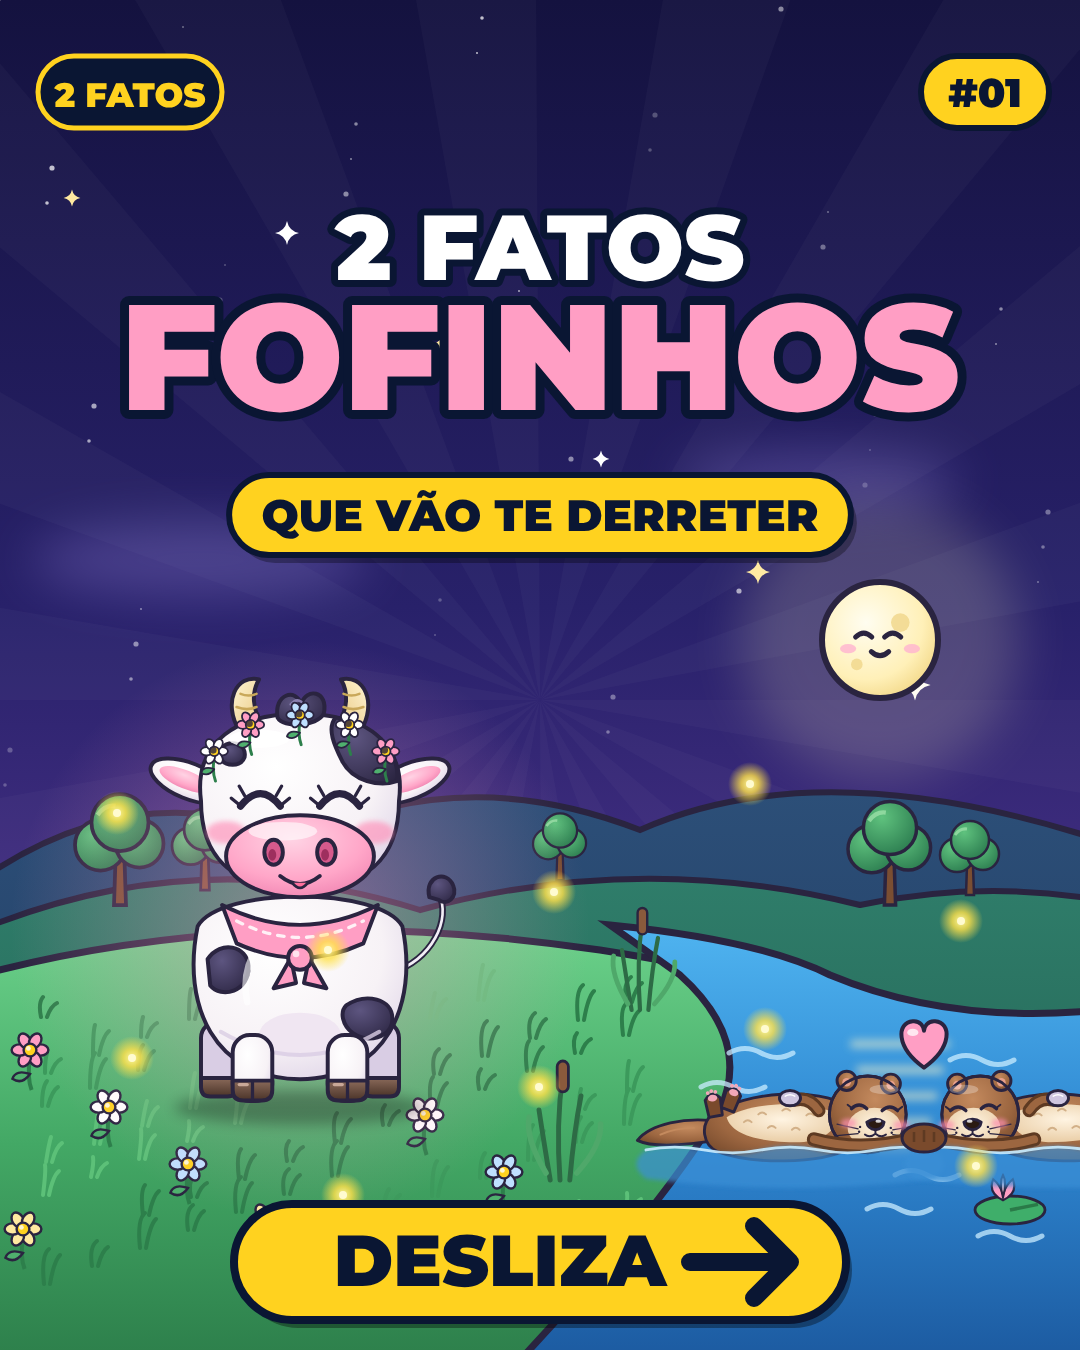
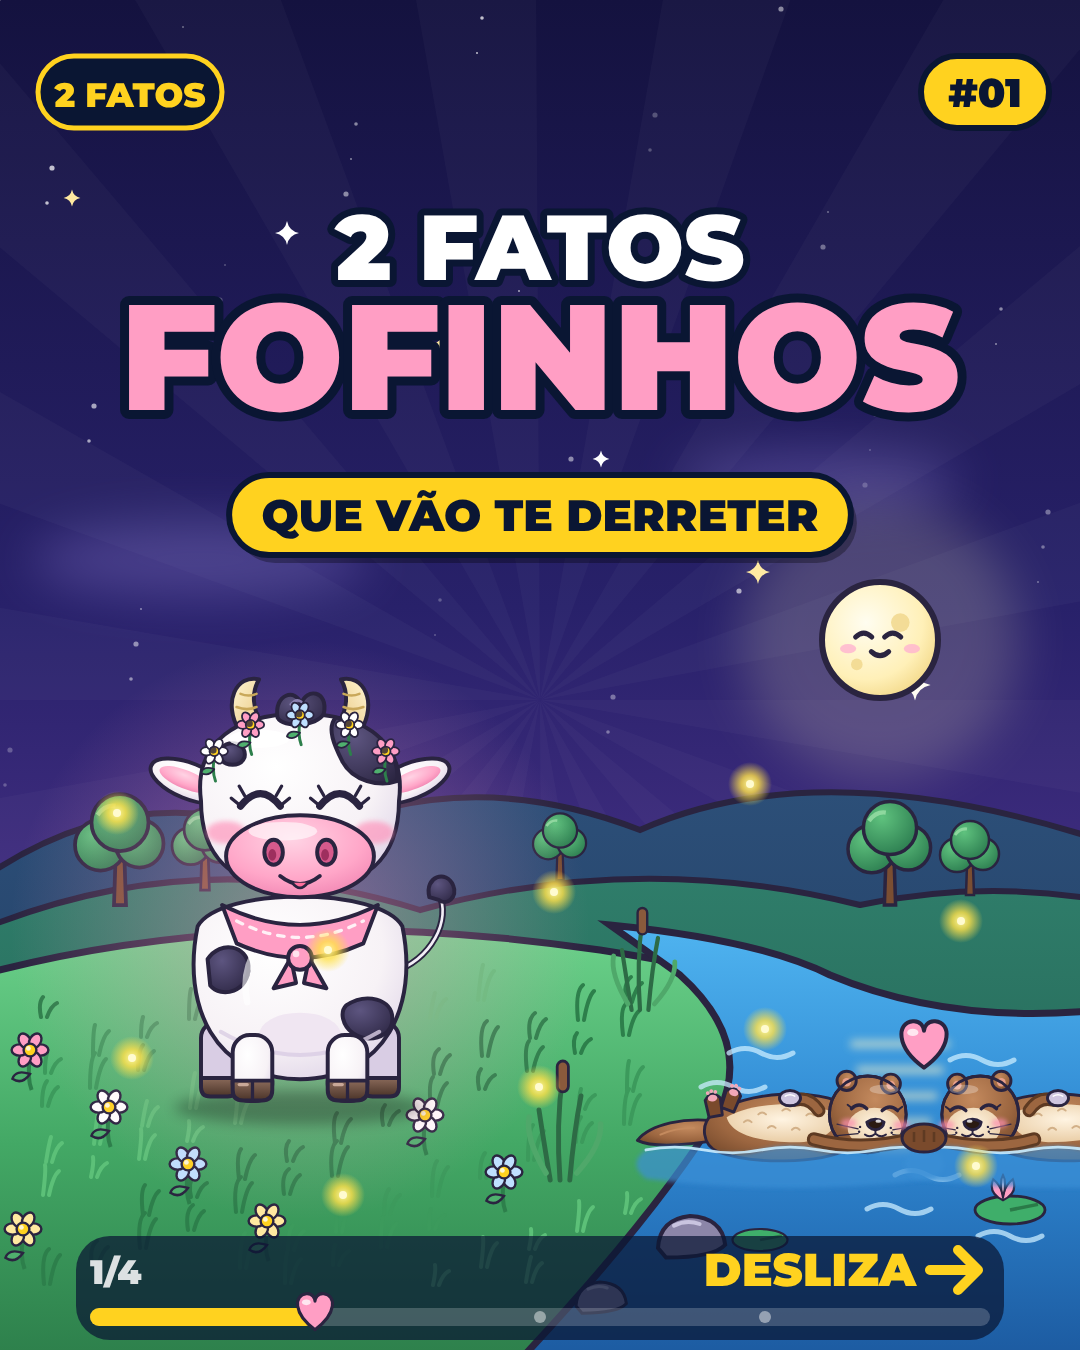
Carrossel fofinhos: barra de progresso com DESLIZA em todos os slides
Claude-Session: https://claude.ai/code/session_01466fSmg3pKuf6zqbkMuRWf

Changed region(s): [[0.0611, 0.8711, 0.9472, 0.9956]]

diff --git a/carrosseis/01-fofinhos/gerar.js b/carrosseis/01-fofinhos/gerar.js
@@ -122,7 +122,19 @@ function reflexo(x,y){ let o='<g filter="url(#b4)" opacity=".55">'; for(let i=0;
 function marca(){ return '<g transform="translate(130 92)"><rect x="-92" y="-36" width="184" height="72" rx="36" fill="#0a1633" stroke="'+YL+'" stroke-width="5"/><text y="15" font-family="M" font-weight="900" font-size="34" fill="'+YL+'" text-anchor="middle">2 FATOS</text></g>'; }
 function canto(n){ return '<g transform="translate(985 92)"><rect x="-64" y="-36" width="128" height="72" rx="36" fill="'+YL+'" stroke="#0a1633" stroke-width="6"/><text y="15" font-family="M" font-weight="900" font-size="40" fill="#0a1633" text-anchor="middle">#'+n+'</text></g>'; }
 function pill(x,y,txt,bg,fg,sz,w){ w=w||txt.length*sz*.66+70; return '<g transform="translate('+x+' '+y+')"><rect x="'+(-w/2+6)+'" y="-32" width="'+w+'" height="80" rx="40" fill="#000" opacity=".3"/><rect x="'+(-w/2)+'" y="-40" width="'+w+'" height="80" rx="40" fill="'+bg+'" stroke="#0a1633" stroke-width="6"/><text y="'+R(sz*.36)+'" font-family="M" font-weight="900" font-size="'+sz+'" fill="'+fg+'" text-anchor="middle">'+txt+'</text></g>'; }
-function caixa(l1,l2){ return '<rect x="96" y="1136" width="900" height="150" rx="36" fill="#000" opacity=".3"/><rect x="90" y="1128" width="900" height="150" rx="36" fill="#fffaf0" stroke="#0a1633" stroke-width="7"/><text x="540" y="1193" font-family="M" font-weight="900" font-size="44" fill="#0a1633" text-anchor="middle">'+l1+'</text><text x="540" y="1248" font-family="M" font-weight="900" font-size="44" fill="#0a1633" text-anchor="middle">'+l2+'</text>'+coracao(940,1140,.7,PK); }
+
+function progresso(i,n=4){ const x0=90,x1=990,y=1308,w=x1-x0, f=w*i/n; let o='';
+ o+='<rect x="'+(x0-14)+'" y="1236" width="'+(w+28)+'" height="104" rx="34" fill="#0a1633" opacity=".72"/>';
+ o+='<text x="'+x0+'" y="1284" font-family="M" font-weight="900" font-size="34" fill="#fff" opacity=".85">'+i+'/'+n+'</text>';
+ if(i<n){ o+='<text x="'+(x1-74)+'" y="1286" font-family="M" font-weight="900" font-size="46" fill="'+YL+'" text-anchor="end">DESLIZA</text><path d="M'+(x1-60)+',1270 h48 m-20,-20 l20,20 l-20,20" fill="none" stroke="'+YL+'" stroke-width="10" stroke-linecap="round" stroke-linejoin="round"/>'; }
+ else { o+='<text x="'+x1+'" y="1286" font-family="M" font-weight="900" font-size="40" fill="'+YL+'" text-anchor="end">SEGUE: TODO DIA MAIS 2</text>'; }
+ o+='<rect x="'+x0+'" y="'+y+'" width="'+w+'" height="18" rx="9" fill="#ffffff" opacity=".2"/>';
+ o+='<rect x="'+x0+'" y="'+y+'" width="'+f+'" height="18" rx="9" fill="'+YL+'"/>';
+ for(let k=1;k<n;k++){ const cx=x0+w*k/n; o+='<circle cx="'+cx+'" cy="'+(y+9)+'" r="6" fill="'+(k<=i?'#0a1633':'#ffffff')+'" opacity="'+(k<=i?.6:.45)+'"/>'; }
+ o+=coracao(x0+f,y+8,.62,PK);
+ return o; }
+
+function caixa(l1,l2){ return '<rect x="96" y="1076" width="900" height="140" rx="36" fill="#000" opacity=".3"/><rect x="90" y="1068" width="900" height="140" rx="36" fill="#fffaf0" stroke="#0a1633" stroke-width="7"/><text x="540" y="1128" font-family="M" font-weight="900" font-size="44" fill="#0a1633" text-anchor="middle">'+l1+'</text><text x="540" y="1183" font-family="M" font-weight="900" font-size="44" fill="#0a1633" text-anchor="middle">'+l2+'</text>'+coracao(940,1080,.7,PK); }
 `;
 const S=[];
 S.push(`(()=>{let o=defs()+ceu(0)+lua(880,640,58)+montes();
@@ -137,7 +149,7 @@ S.push(`(()=>{let o=defs()+ceu(0)+lua(880,640,58)+montes();
  o+=marca()+canto('01');
  o+=fTxt(540,280,'2 FATOS',92,'#fff')+fTxt(540,410,'FOFINHOS',150,PK,'middle',18);
  o+=pill(540,515,'QUE VÃO TE DERRETER',YL,'#0a1633',44);
- o+='<g transform="translate(540 1262)"><rect x="-300" y="-50" width="612" height="116" rx="58" fill="#000" opacity=".35"/><rect x="-306" y="-58" width="612" height="116" rx="58" fill="'+YL+'" stroke="#0a1633" stroke-width="8"/><text x="-40" y="24" font-family="M" font-weight="900" font-size="72" fill="#0a1633" text-anchor="middle">DESLIZA</text><path d="M150,0 h100 m-36,-36 l36,36 l-36,36" fill="none" stroke="#0a1633" stroke-width="18" stroke-linecap="round" stroke-linejoin="round"/></g>';
+ o+=progresso(1);
  return o;})()`);
 S.push(`(()=>{let o=defs()+ceu(1)+lua(150,640,50)+montes();
  o+='<g stroke="'+OL+'" stroke-width="6">'; for(let x=10;x<1080;x+=125) o+='<rect x="'+x+'" y="880" width="30" height="120" rx="8" fill="url(#wood)"/><path d="M'+(x+8)+',900 v80" stroke="#8a5a2c" stroke-width="3"/>'; o+='<rect x="-10" y="900" width="1100" height="22" rx="8" fill="url(#wood)"/><rect x="-10" y="950" width="1100" height="22" rx="8" fill="url(#wood)"/></g>';
@@ -148,7 +160,7 @@ S.push(`(()=>{let o=defs()+ceu(1)+lua(150,640,50)+montes();
  o+=coracao(540,600,1.5,PK)+coracao(455,545,.7,YL)+coracao(625,530,.6,PK)+vagalumes(2,9,700,1100);
  o+=marca()+canto('02')+pill(540,210,'FATO 1',YL,'#0a1633',44,240);
  o+=fTxt(540,350,'VACAS TÊM',96,'#fff')+fTxt(540,465,'MELHOR AMIGA',104,PK,'middle',16);
- o+=caixa('Juntas, elas ficam bem','menos <tspan fill="#e8649a">estressadas</tspan>');
+ o+=caixa('Juntas, elas ficam bem','menos <tspan fill="#e8649a">estressadas</tspan>')+progresso(2);
  return o;})()`);
 S.push(`(()=>{let o=defs()+ceu(2)+lua(880,620,54)+montes();
  o+=relva('M-20,880 Q200,850 380,880 L320,920 Q160,930 -20,920 Z')+junco(80,905,.7)+junco(300,900,.55);
@@ -159,7 +171,7 @@ S.push(`(()=>{let o=defs()+ceu(2)+lua(880,620,54)+montes();
  o+=vagalumes(3,8,700,900);
  o+=marca()+canto('03')+pill(540,210,'FATO 2',YL,'#0a1633',44,240);
  o+=fTxt(540,350,'LONTRAS DORMEM',90,'#fff')+fTxt(540,465,'DE MÃOS DADAS',104,PK,'middle',16);
- o+=caixa('Pra corrente não separar','uma da <tspan fill="#e8649a">outra</tspan>');
+ o+=caixa('Pra corrente não separar','uma da <tspan fill="#e8649a">outra</tspan>')+progresso(3);
  return o;})()`);
 S.push(`(()=>{let o=defs()+ceu(3)+lua(900,640,50)+montes();
  o+=relva('M-20,960 Q280,900 560,950 Q640,970 700,1000 L560,1360 H-20 Z');
@@ -167,12 +179,12 @@ S.push(`(()=>{let o=defs()+ceu(3)+lua(900,640,50)+montes();
  o+=folhas(10,540,990,1110,50,4);
  for(let i=0;i<6;i++) o+=flor((i*83+30)%480,1000+(i*37)%90,.75,['#ff9ec4','#ffffff','#bfe0ff'][i%3]);
  o+='<circle cx="290" cy="820" r="280" fill="url(#pglow)"/>'+vaca(210,760,.5,1,{hr:10,lenco:PK})+vaca(400,760,.5,-1,{hr:10,lenco:YL,coroa:true});
- o+=lontra(700,1060,.42,-1)+lontra(934,1060,.42,1)+maos(817,1071,.42);
- o+=coracao(305,620,1,PK)+coracao(817,990,.8,PK)+vagalumes(4,8,700,1050);
+ o+=lontra(700,1025,.42,-1)+lontra(934,1025,.42,1)+maos(817,1036,.42);
+ o+=coracao(305,620,1,PK)+coracao(817,955,.8,PK)+vagalumes(4,8,700,1050);
  o+=marca()+canto('04');
  o+=fTxt(540,280,'MANDA PRA SUA',96,'#fff')+fTxt(540,410,'MELHOR AMIGA',120,PK,'middle',18);
- o+='<g transform="translate(540 1135)"><rect x="-294" y="-42" width="600" height="100" rx="50" fill="#000" opacity=".35"/><rect x="-300" y="-50" width="600" height="100" rx="50" fill="'+YL+'" stroke="#0a1633" stroke-width="7"/><path d="M-230,-14 L-180,0 L-230,14 Z M-180,0 L-235,-30 L-215,0 L-235,30 Z" fill="#0a1633"/><text x="30" y="16" font-family="M" font-weight="900" font-size="46" fill="#0a1633" text-anchor="middle">ENVIA AGORA</text></g>';
- o+=pill(540,1265,'SEGUE: TODO DIA MAIS 2 FATOS','#0a1633','#fff',32,640);
+ o+='<g transform="translate(540 1158)"><rect x="-294" y="-42" width="600" height="100" rx="50" fill="#000" opacity=".35"/><rect x="-300" y="-50" width="600" height="100" rx="50" fill="'+YL+'" stroke="#0a1633" stroke-width="7"/><path d="M-230,-14 L-180,0 L-230,14 Z M-180,0 L-235,-30 L-215,0 L-235,30 Z" fill="#0a1633"/><text x="30" y="16" font-family="M" font-weight="900" font-size="46" fill="#0a1633" text-anchor="middle">ENVIA AGORA</text></g>';
+ o+=progresso(4);
  return o;})()`);
 (async()=>{const b=await chromium.launch();
 for(let i=0;i<S.length;i++){const p=await b.newPage({viewport:{width:1080,height:1350}});
